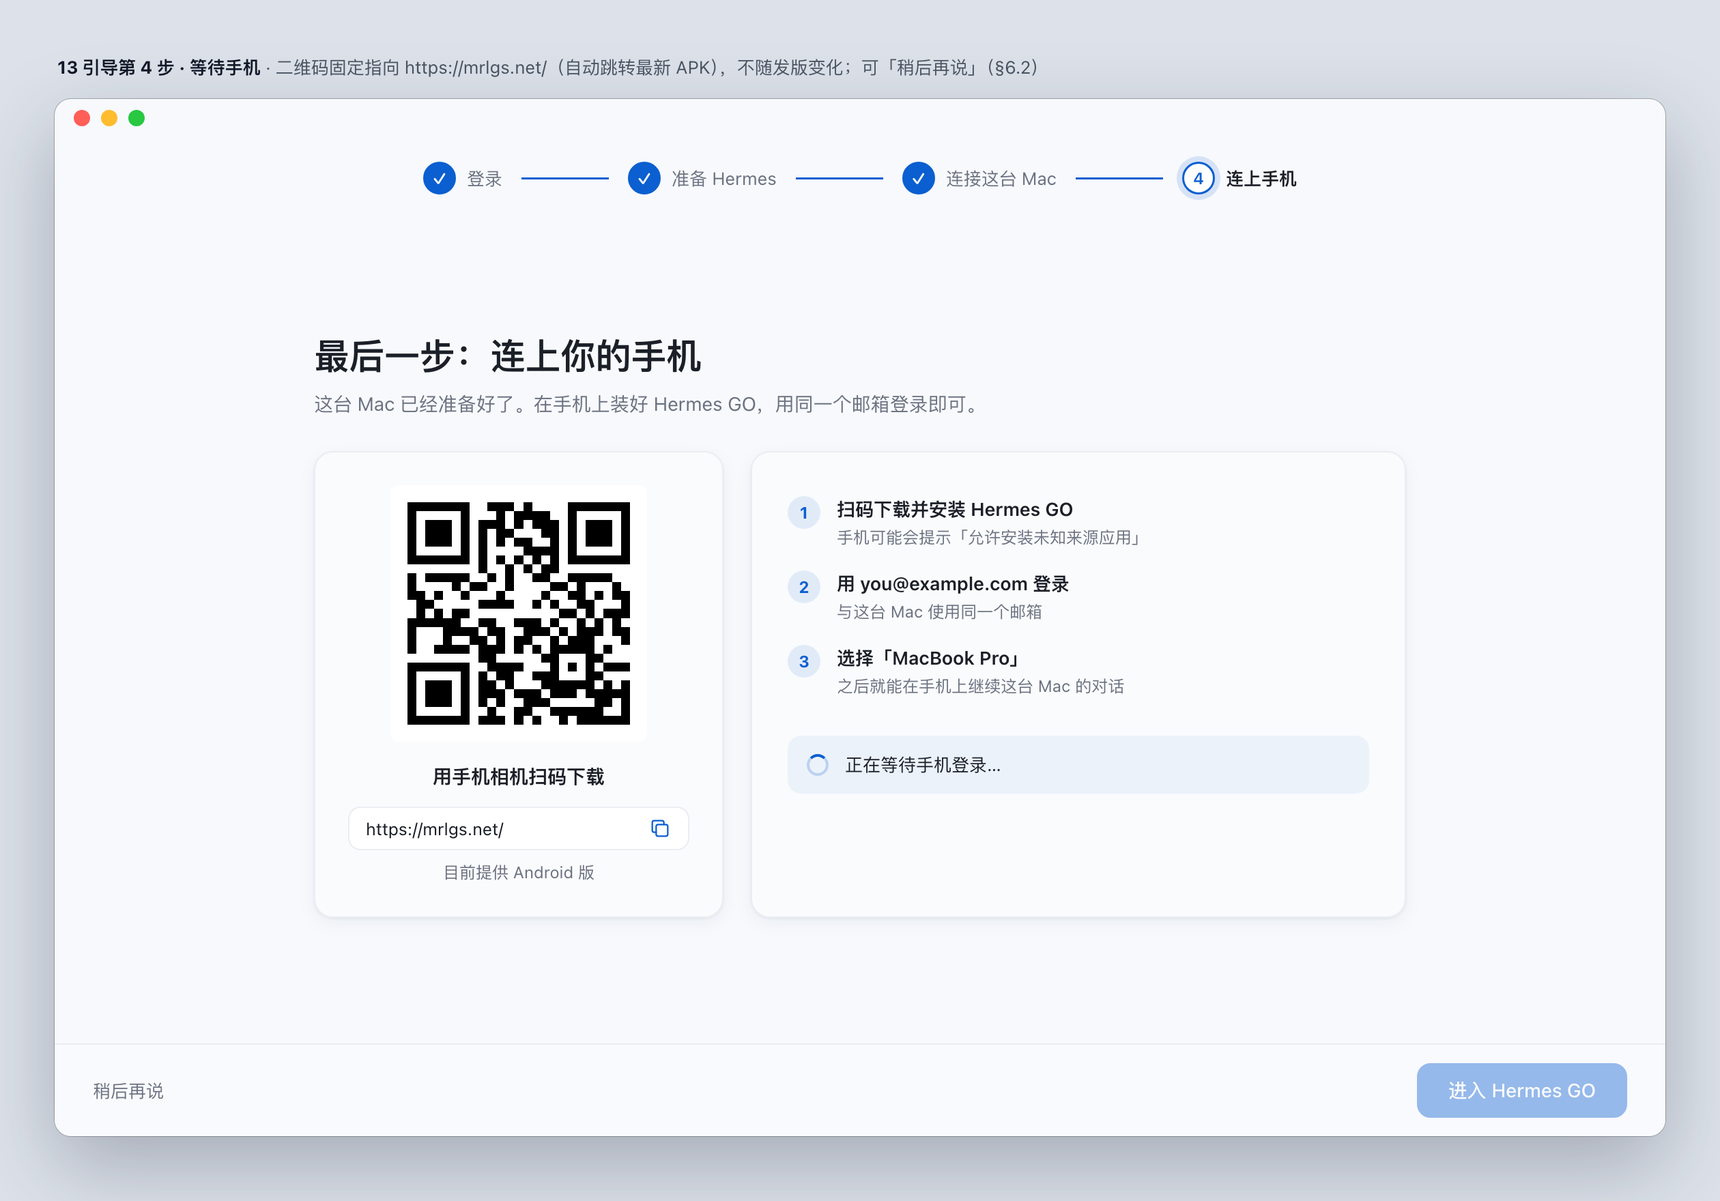
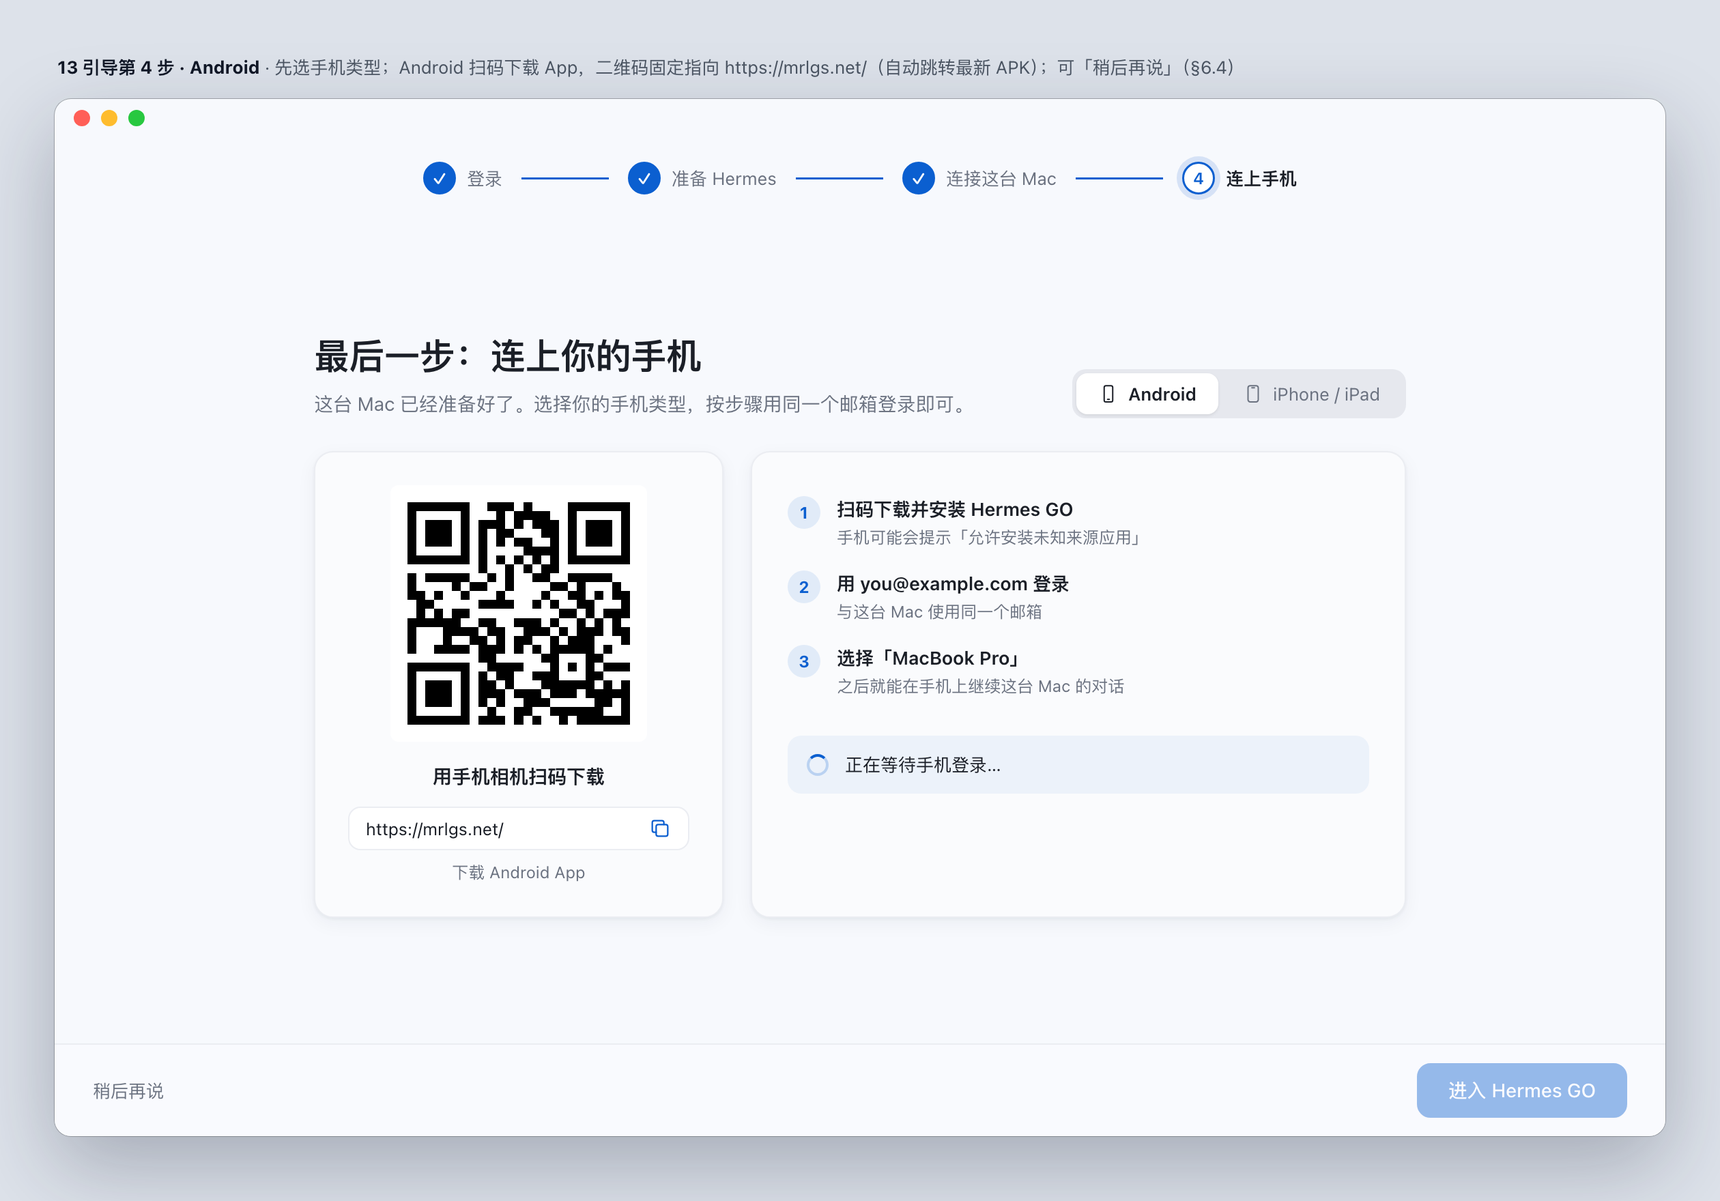
docs(desktop): split onboarding phone step into Android and iPhone/iPad
Step 4 now asks for the phone type. Android keeps the download QR
(https://mrlgs.net/ redirects to the latest APK). iPhone and iPad have
no native app, so they get a QR for the Web App (https://mrlgs.net/app/,
a PWA with manifest and apple-touch-icon) and Safari "Add to Home
Screen" steps.

Web App sign-ins appear as kind "browser" installations, which the
current Desktop phones filter drops, so the step's completion rule now
counts phone and browser devices that appear after the step starts.
No Gateway change: the list already returns browser installations.

Adds the iPhone/iPad mockup; later screens are renumbered.

diff --git a/docs/design/desktop-onboarding/onboarding.html b/docs/design/desktop-onboarding/onboarding.html
@@ -235,6 +235,14 @@
   .pop .cta { margin: 10px 12px; height: 34px; border-radius: 8px; background: #0B5FD0; color: #fff; display: flex; align-items: center; justify-content: center; font-weight: 600; font-size: 13px; }
   .pop .note { padding: 0 14px 12px; font-size: 11.5px; color: #6B7280; line-height: 1.45; }
 
+
+  .seg { display: inline-flex; padding: 3px; border-radius: 10px; background: color-mix(in srgb, var(--secondary) 12%, transparent); gap: 2px; }
+  .seg span { height: 30px; padding: 0 16px; border-radius: 8px; display: inline-flex; align-items: center; gap: 7px; font-size: 13px; color: var(--secondary); }
+  .seg span.on { background: var(--card-strong); color: var(--text); font-weight: 600; box-shadow: 0 1px 2px rgba(0,0,0,.08); }
+  .seg svg { width: 15px; height: 15px; }
+  .num { width: 24px; height: 24px; border-radius: 50%; display: grid; place-items: center; background: color-mix(in srgb, var(--blue) 10%, transparent); color: var(--blue); font-size: 12px; font-weight: 700; flex: none; }
+  .ios-share { display: inline-flex; vertical-align: -3px; width: 16px; height: 16px; color: var(--blue); }
+
   svg { stroke: currentColor; fill: none; stroke-width: 1.6; stroke-linecap: round; stroke-linejoin: round; }
 </style>
 </head>
@@ -660,7 +668,7 @@
 
 <!-- ===================================================================== -->
 <section class="board" id="onboard-phone">
-  <p class="caption"><b>13 引导第 4 步 · 等待手机</b> · 二维码固定指向 https://mrlgs.net/（自动跳转最新 APK），不随发版变化；可「稍后再说」（§6.2）</p>
+  <p class="caption"><b>13 引导第 4 步 · Android</b> · 先选手机类型；Android 扫码下载 App，二维码固定指向 https://mrlgs.net/（自动跳转最新 APK）；可「稍后再说」（§6.4）</p>
   <div class="window">
     <div class="titlebar"><i></i><i></i><i></i></div>
     <div class="gate">
@@ -672,8 +680,11 @@
       </div>
       <div class="center">
         <div class="column wide" style="width:800px">
-          <h1 style="margin-top:0">最后一步：连上你的手机</h1>
-          <p class="lede">这台 Mac 已经准备好了。在手机上装好 Hermes GO，用同一个邮箱登录即可。</p>
+          <div class="row" style="justify-content:space-between;align-items:flex-end">
+            <div><h1 style="margin-top:0">最后一步：连上你的手机</h1>
+            <p class="lede">这台 Mac 已经准备好了。选择你的手机类型，按步骤用同一个邮箱登录即可。</p></div>
+            <div class="seg"><span class="on"><svg viewBox="0 0 24 24"><rect x="7" y="2.5" width="10" height="19" rx="2"/><path d="M11 18.5h2"/></svg>Android</span><span><svg viewBox="0 0 24 24"><rect x="6" y="2.5" width="12" height="19" rx="2.5"/><path d="M10.5 5h3"/></svg>iPhone / iPad</span></div>
+          </div>
           <div class="row mt24" style="align-items:stretch;gap:20px">
             <div class="card" style="width:300px;flex:none;text-align:center;padding:24px">
               <img src="download-qr.png" alt="" style="width:188px;height:188px;image-rendering:pixelated;border-radius:6px;background:#fff;padding:6px">
@@ -682,7 +693,7 @@
                 <span>https://mrlgs.net/</span>
                 <svg viewBox="0 0 24 24" style="color:var(--blue)"><rect x="8" y="8" width="12" height="12" rx="2"/><path d="M16 8V6a2 2 0 0 0-2-2H6a2 2 0 0 0-2 2v8a2 2 0 0 0 2 2h2"/></svg>
               </div>
-              <div class="small muted mt8">目前提供 Android 版</div>
+              <div class="small muted mt8">下载 Android App</div>
             </div>
             <div class="card" style="flex:1;padding:24px 26px">
               <div class="plist" style="margin-top:0">
@@ -706,8 +717,60 @@
 </section>
 
 <!-- ===================================================================== -->
+<section class="board" id="onboard-phone-ios">
+  <p class="caption"><b>14 引导第 4 步 · iPhone / iPad</b> · 没有 iOS App：扫码在 Safari 打开 Web App（https://mrlgs.net/app/），添加到主屏幕后全屏使用（§6.4）</p>
+  <div class="window">
+    <div class="titlebar"><i></i><i></i><i></i></div>
+    <div class="gate">
+      <div class="stepper">
+        <div class="step done"><span class="dot">✓</span>登录</div><div class="step-line done"></div>
+        <div class="step done"><span class="dot">✓</span>准备 Hermes</div><div class="step-line done"></div>
+        <div class="step done"><span class="dot">✓</span>连接这台 Mac</div><div class="step-line done"></div>
+        <div class="step current"><span class="dot">4</span>连上手机</div>
+      </div>
+      <div class="center">
+        <div class="column wide" style="width:800px">
+          <div class="row" style="justify-content:space-between;align-items:flex-end">
+            <div><h1 style="margin-top:0">最后一步：连上你的手机</h1>
+            <p class="lede">这台 Mac 已经准备好了。选择你的手机类型，按步骤用同一个邮箱登录即可。</p></div>
+            <div class="seg"><span><svg viewBox="0 0 24 24"><rect x="7" y="2.5" width="10" height="19" rx="2"/><path d="M11 18.5h2"/></svg>Android</span><span class="on"><svg viewBox="0 0 24 24"><rect x="6" y="2.5" width="12" height="19" rx="2.5"/><path d="M10.5 5h3"/></svg>iPhone / iPad</span></div>
+          </div>
+          <div class="row mt24" style="align-items:stretch;gap:20px">
+            <div class="card" style="width:300px;flex:none;text-align:center;padding:24px">
+              <img src="webapp-qr.png" alt="" style="width:188px;height:188px;image-rendering:pixelated;border-radius:6px;background:#fff;padding:6px">
+              <div style="font-weight:600;font-size:14px" class="mt12">用相机扫码，在 Safari 打开</div>
+              <div class="field mt12" style="height:32px;font-size:12.5px;justify-content:space-between">
+                <span>https://mrlgs.net/app/</span>
+                <svg viewBox="0 0 24 24" style="color:var(--blue)"><rect x="8" y="8" width="12" height="12" rx="2"/><path d="M16 8V6a2 2 0 0 0-2-2H6a2 2 0 0 0-2 2v8a2 2 0 0 0 2 2h2"/></svg>
+              </div>
+              <div class="small muted mt8">网页版 · 无需从 App Store 安装</div>
+            </div>
+            <div class="card" style="flex:1;padding:24px 26px">
+              <div class="plist" style="margin-top:0">
+                <div class="pitem" style="align-items:flex-start;padding:7px 0"><span class="num">1</span><div><div style="font-weight:600">用相机扫码，在 Safari 中打开</div></div></div>
+                <div class="pitem" style="align-items:flex-start;padding:7px 0"><span class="num">2</span><div><div style="font-weight:600">点「分享」<svg class="ios-share" viewBox="0 0 24 24"><path d="M12 3v12M8 7l4-4 4 4"/><path d="M6 11H5v10h14V11h-1"/></svg></div><div class="small muted" style="margin-top:3px">iPhone 在屏幕底部，iPad 在地址栏右侧</div></div></div>
+                <div class="pitem" style="align-items:flex-start;padding:7px 0"><span class="num">3</span><div><div style="font-weight:600">选「添加到主屏幕」，再点「添加」</div></div></div>
+                <div class="pitem" style="align-items:flex-start;padding:7px 0"><span class="num">4</span><div><div style="font-weight:600">从主屏幕的 Hermes GO 图标打开</div><div class="small muted" style="margin-top:3px">用 you@example.com 登录，选择「MacBook Pro」</div></div></div>
+              </div>
+              <div class="hint mt12"><svg viewBox="0 0 24 24"><circle cx="12" cy="12" r="9"/><path d="M12 8h.01M11 12h1v4h1"/></svg>也可以直接在 Safari 标签页里用，但会显示浏览器的地址栏和工具栏。</div>
+              <div class="row mt16" style="padding:12px 14px;border-radius:10px;background:color-mix(in srgb,var(--blue) 6%,transparent);font-size:13px">
+                <span class="spin"></span><span>正在等待 Web App 登录…</span>
+              </div>
+            </div>
+          </div>
+        </div>
+      </div>
+      <div class="footer">
+        <div class="left"><span class="linkbtn">稍后再说</span></div>
+        <span class="btn lg primary disabled">进入 Hermes GO</span>
+      </div>
+    </div>
+  </div>
+</section>
+
+<!-- ===================================================================== -->
 <section class="board" id="onboard-phone-done">
-  <p class="caption"><b>14 引导第 4 步 · 手机已连上</b> · 账号下出现新的已授权手机时自动打勾，主按钮变为可用</p>
+  <p class="caption"><b>15 引导第 4 步 · 已连上</b> · 账号下出现新的已授权手机时自动打勾，主按钮变为可用</p>
   <div class="window">
     <div class="titlebar"><i></i><i></i><i></i></div>
     <div class="gate">
@@ -738,7 +801,7 @@
 
 <!-- ===================================================================== -->
 <section class="board" id="manage-only-overview">
-  <p class="caption"><b>15 只管理模式的主界面</b> · 概览显示所选 Mac 的状态；顶部入口「把这台 Mac 也连上」随时可以回到引导（§7.1、§9）</p>
+  <p class="caption"><b>16 只管理模式的主界面</b> · 概览显示所选 Mac 的状态；顶部入口「把这台 Mac 也连上」随时可以回到引导（§7.1、§9）</p>
   <div class="window">
     <div class="titlebar"><i></i><i></i><i></i></div>
     <div class="shell">
@@ -772,7 +835,7 @@
 
 <!-- ===================================================================== -->
 <section class="board" id="menubar">
-  <p class="caption"><b>16 菜单栏</b> · 保留菜单栏。未登录：直接给「登录」；未装机：「完成设置」回到引导；只管理：显示所选 Mac 的状态（§9）</p>
+  <p class="caption"><b>17 菜单栏</b> · 保留菜单栏。未登录：直接给「登录」；未装机：「完成设置」回到引导；只管理：显示所选 Mac 的状态（§9）</p>
   <div class="desk">
     <div class="menubar"><b></b><span style="font-weight:600">Finder</span><span>文件</span><span>编辑</span><span>显示</span>
       <div class="r">

diff --git a/docs/DESKTOP_ONBOARDING_REQUIREMENTS.md b/docs/DESKTOP_ONBOARDING_REQUIREMENTS.md
@@ -7,7 +7,7 @@
 > `docs/ERROR_HANDLING.md` 登记。视觉约束以 `docs/DESKTOP_DESIGN.md` 为准，行为约束以
 > `docs/DESKTOP_PHASE0.md` 为准；本文与两者冲突时，以它们和代码为准。
 > Android 侧的对应需求是 `docs/LOGIN_REQUIREMENTS.md`，本文沿用它「从未登录 / 登录失效」的分界。
-> 设计稿：`docs/design/desktop-onboarding/`（16 个画面，索引见该目录 `README.md`）。
+> 设计稿：`docs/design/desktop-onboarding/`（17 个画面，索引见该目录 `README.md`）。
 
 ## 1. 问题
 
@@ -139,17 +139,13 @@
 | 1 登录 | 邮箱验证码（即 §5.2） | `accountController.signIn` / 邮箱交换 | `accountState == .signedIn` |
 | 2 准备 Hermes | 「检测到你已安装 Hermes，将直接使用」或「这台 Mac 还没有 Hermes，一键安装」 | `hermesInstallPhase`（`HermesInstallCard` 的全部分支，包括本机 Hermes 损坏时的指引 `isFreshInstallBlockedByOwnersHermes`，以及 `bundledHermesChoiceCard`） | 本机 Hermes 可达，或安装成功 |
 | 3 连接这台 Mac | 一个进度条：安装后台服务 → 绑定账号 → 开机自启 → 验证连通 | `inspectExisting` → `verifySignedRelease` → `installHermes`/`configureLocalProvider` → `installConnector` → `bindAccount` → `enableAutomaticStartup` → `verifyEndToEnd`，由现有的准备 → 确认 sheet → 提交流程执行 | `bootstrapPlan.readiness == .managedInstallActive` |
-| 4 连上手机 | 下载二维码 +「在手机上用同一个邮箱登录 Hermes GO」；检测到新手机后自动打勾 | `AccountDashboard.phones` | `phones` 中出现 `active` 的手机，或用户点「稍后再说」 |
+| 4 连上手机 | 先选手机类型：**Android** 扫码下载 App；**iPhone / iPad** 扫码打开 Web App 并添加到主屏幕（§6.4）。两者都用同一个邮箱登录，检测到后自动打勾 | `AccountDashboard.installations` | 进入第 4 步之后出现新的 `active` 设备，类型为 `phone` 或 `browser`（§6.4）；或用户点「稍后再说」 |
 
 说明：
 
 - 第 2 步遵守 `docs/MANAGED_HERMES_STRATEGY.md` 的「一台 Mac 只有一个 Hermes」：本机已有 Hermes 就用
   它，只有没有时才按上游的标准方式安装；引导不提供「另装一份」的选项。
-- 第 4 步的下载二维码内容是公开发布服务的根地址（目前为 `https://mrlgs.net/`）。`release-server`
-  把 `/` 302 跳转到当前最新的带版本号 APK（`docs/APP_UPDATE.md`；2026-09-23 线上核对：跳转到
-  `/releases/Hermes-Remote-0.1.141-debug.apk`），所以二维码是固定的，不随每次发版变化，Desktop 也
-  不需要为此请求 `index.json`。二维码在本机离线生成，不经过 Gateway 鉴权客户端。二维码下方附一行
-  文字：「用手机相机扫码下载并安装，然后用同一个邮箱登录」，以及可复制的地址。
+- 第 4 步分 Android 与 iPhone / iPad 两种情况，见 §6.4。
 - 整个引导里用户唯一需要输入的是邮箱和验证码。`configureLocalProvider` 只是「使用本机 Hermes
   配置目录」，不要求填写 API Key。
 - 第 3 步中会改变机器的操作，仍然先弹出现有的确认 sheet（`managedBootstrapConfirmationSheet` /
@@ -175,6 +171,51 @@
 - 其余 → 主界面
 
 「第 4 步已完成或跳过」是引导唯一需要本地记住的标记，按账号 ID 存，换账号登录后重新判断。
+
+### 6.4 第 4 步：按手机类型分两条路
+
+第 4 步顶部是一个分段控件「Android ｜ iPhone / iPad」，默认选中 Android。Desktop 无法预知用户
+拿的是哪种手机，所以由用户选；切换只改变本页的说明和二维码，不影响完成判据。两个二维码都在本机
+离线生成（与现有 `PairingQRCodeGenerator` 同一方式），不经过 Gateway 鉴权客户端，下方都附可复制的
+地址。
+
+**Android：下载 App**
+
+- 二维码内容：公开发布服务的根地址 `https://mrlgs.net/`。`release-server` 把 `/` 302 跳转到当前最新
+  的带版本号 APK（`docs/APP_UPDATE.md`；2026-09-23 线上核对：跳转到
+  `/releases/Hermes-Remote-0.1.141-debug.apk`），所以二维码固定，不随发版变化，Desktop 也不需要
+  请求 `index.json`。
+- 步骤：① 用相机扫码下载并安装（可能提示允许安装未知来源应用）② 用同一个邮箱登录 ③ 选择这台 Mac。
+
+**iPhone / iPad：添加 Web App 到主屏幕**
+
+目前没有 iOS App。iPhone 与 iPad 使用 Gateway 托管的 Web App（`https://mrlgs.net/app/`，2026-09-23
+线上核对：`/app` 308 跳转到 `/app/`，页面声明了 `manifest.webmanifest`、`apple-touch-icon` 与
+`apple-mobile-web-app-capable`），添加到主屏幕后以独立窗口全屏运行。
+
+- 二维码内容：`https://mrlgs.net/app/`。
+- 步骤：
+  1. 用相机扫码，在 **Safari** 中打开。
+  2. 点「分享」按钮：iPhone 在屏幕底部，iPad 在地址栏右侧。
+  3. 在菜单中选「添加到主屏幕」，点「添加」。
+  4. 从主屏幕上的 Hermes GO 图标打开，用同一个邮箱登录，选择这台 Mac。
+- 提示一行：「请从主屏幕图标打开。直接在 Safari 标签页里用也可以，但会显示浏览器的地址栏和工具栏。」
+- 文案只写 Safari。其他 iOS 浏览器的菜单名称各不相同，本页不逐一说明。
+
+**完成判据与展示**
+
+- Android App 登录后，设备列表（`AccountDashboard.installations`）出现 `kind == "phone"` 的记录；
+  Web App 登录后出现的是 `kind == "browser"`、`platform == "web"` 的记录。今天 Desktop 的
+  `AccountDashboard.phones` 只筛选 `phone`，**必须把 `browser` 也纳入第 4 步的完成判据**，否则
+  iPhone 用户登录后第 4 步永远不会打勾。这只改 Desktop 的筛选，Gateway 已经返回 `browser` 记录，
+  `ManagedAccountInstallation.kind` 也按字符串解码，不需要改契约。
+- 只认进入第 4 步**之后**新出现的设备，避免把账号里早已存在的设备误判为「刚连上」。实现时以进入
+  第 4 步时的设备 ID 集合为基线，出现不在基线中的 `phone` / `browser` 即完成。
+- Web App 登录时不上报设备名，Gateway 默认记为 `Web browser`，无法区分 iPhone 还是电脑上的浏览器。
+  Desktop 把 `browser` 类设备显示为「网页版 Hermes GO」，不写成「iPhone」。在电脑浏览器里登录 Web App
+  也会让第 4 步打勾，这是可以接受的：它同样是一个能访问这台 Mac 的远程入口。
+- 后续可选（不在本需求内，属于 Web 包的改动）：Web App 登录时根据 UA 上报「iPhone · Safari」这类
+  设备名，Desktop 就能显示得更具体。
 
 ## 7. 老账号、新 Mac（状态 5）
 
@@ -264,7 +305,7 @@
 
 - 老账号、新 Mac 时先问「把这台 Mac 也连上 / 只在这台 Mac 上管理」（§7.1）。
 - 未满额直接添加，不做替换；满额时先移除一台（§7.2、§7.3）。
-- 第 4 步用下载二维码（§6.2）。
+- 第 4 步分 Android（二维码下载 App）与 iPhone / iPad（二维码打开 Web App 并添加到主屏幕）两种情况（§6.4）。
 - 「只管理」模式下菜单栏显示所选 Mac 的状态（§9）。
 
 实现时核对：`DELETE /v2/devices/{id}` 的 `not_found` / `reauthentication_failed` 等结果在 Gateway 上
@@ -282,6 +323,7 @@
 - 会话失效时 `startMonitoring()` 循环继续运行，`refreshHermesRuntime()` 仍被调用（§4.2）。
 - 断点续装：§6.3 的每个反推分支。
 - 名额满 / 未满时，§7.1 两个选项的可用性。
+- 第 4 步完成判据：基线之后新出现的 `phone` 与 `browser` 设备都判定为完成；基线中已有的设备不判定。
 - `.existingServiceNeedsAttention` 不会进入引导（§8）。
 
 干净 Mac 上的完整首装流程无法自动化，需要加入 `docs/DESKTOP_TEST_PLAN.md` 的人工步骤。

diff --git a/docs/design/desktop-onboarding/README.md b/docs/design/desktop-onboarding/README.md
@@ -6,7 +6,8 @@
 
 - `onboarding.html`：全部画面的唯一源文件，`?s=<id>` 只显示一个画面。
 - `render.sh`：用本机 Chrome 无头模式把每个画面渲染成 2x PNG（macOS）。
-- `download-qr.png`：用 CoreImage 生成、可以真实扫码的二维码，内容为 `https://mrlgs.net/`，已解码校验。
+- `download-qr.png` / `webapp-qr.png`：用 CoreImage 生成、可以真实扫码的二维码，内容分别为
+  `https://mrlgs.net/`（Android 下载）和 `https://mrlgs.net/app/`（iPhone / iPad Web App），均已解码校验。
 
 | 文件 | 画面 | 需求章节 |
 |---|---|---|
@@ -22,10 +23,11 @@
 | `10-onboard-hermes-found.png` | 引导第 2 步 · 已有 Hermes | §6.2 |
 | `11-onboard-hermes-missing.png` | 引导第 2 步 · 没有 Hermes | §6.2 |
 | `12-onboard-connect.png` | 引导第 3 步 · 连接中 | §6.2 |
-| `13-onboard-phone.png` | 引导第 4 步 · 等待手机（下载二维码） | §6.2 |
-| `14-onboard-phone-done.png` | 引导第 4 步 · 手机已连上 | §6.2 |
-| `15-manage-only-overview.png` | 只管理模式的主界面 | §7.1、§9 |
-| `16-menubar.png` | 菜单栏：未登录 / 未装机 / 只管理 | §9 |
+| `13-onboard-phone.png` | 引导第 4 步 · Android（扫码下载 App） | §6.4 |
+| `14-onboard-phone-ios.png` | 引导第 4 步 · iPhone / iPad（Web App 添加到主屏幕） | §6.4 |
+| `15-onboard-phone-done.png` | 引导第 4 步 · 已连上 | §6.2 |
+| `16-manage-only-overview.png` | 只管理模式的主界面 | §7.1、§9 |
+| `17-menubar.png` | 菜单栏：未登录 / 未装机 / 只管理 | §9 |
 
 这些是方向稿，不是像素规格。设备名、邮箱、代理地址和验证码都是示例值。「改用内置 Hermes」和
 第 3 步开始前的确认 sheet 沿用现有设计，本组没有重画。
